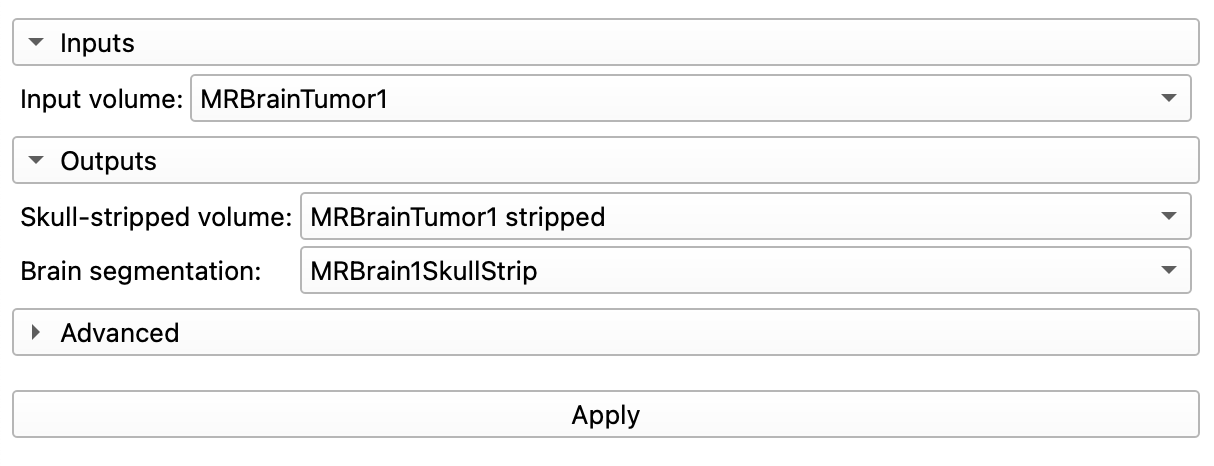
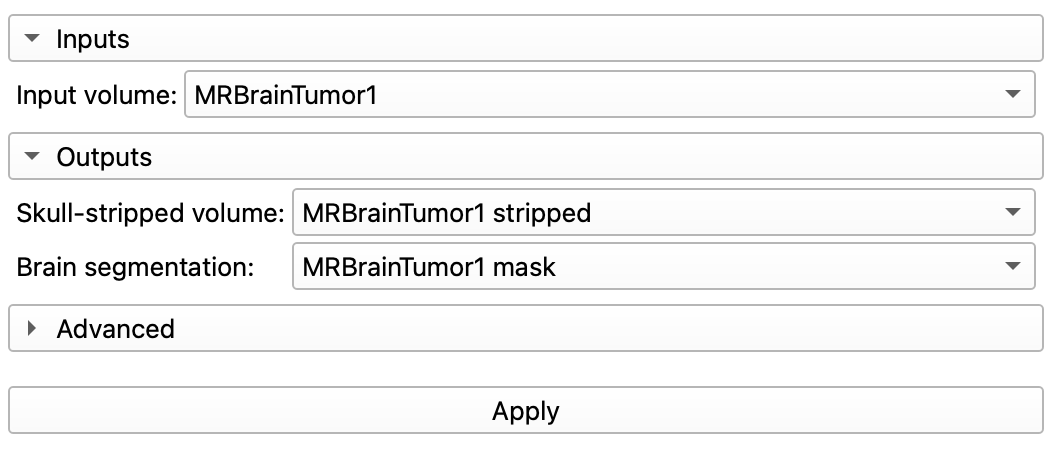
add synthseg to MRTumor

Changed region(s): [[0.0, 0.3097, 0.9981, 0.8053], [0.0, 0.031, 0.9981, 0.2788], [0.0, 0.8363, 0.9981, 0.9602]]

diff --git a/docs/slicer/MRTumorSegment.md b/docs/slicer/MRTumorSegment.md
@@ -38,9 +38,10 @@ This exercise is based on the following Slicer tutorial: [pdf](https://www.dropb
 This exercise requires the following extensions:
 
 - [HDBrainExtraction](https://github.com/lassoan/SlicerHDBrainExtraction#hdbrainextraction).
-- PyTorch
+- PyTorch (should be installed with TotalSegmentator Extension)
+- SynthSeg
 
-Be sure to [install those extensions](CustomizeSlicer.md) before continuing.
+Be sure to [install these extensions](CustomizeSlicer.md) before continuing.
 
 ## Load the Tumor datasets
 
@@ -64,11 +65,11 @@ Hover over the names of these volumes. Notice that you get some information on t
 
     No.
 
-### Volume Module
+### Volumes Module
 
-Bring up the Volume module ![img-name](images/button_volumes_module.png){ width="50"}
+Bring up the Volumes module ![img-name](images/button_volumes_module.png){ width="50"}
 
-The volume module gives you more detailed information on the volumes and allows you to change the display properties of the volumes.
+The Volumes module gives you more detailed information on the volumes and allows you to change the display properties of the volumes.
 
 ??? question "What are the dimensions of the volume (Image Dimensions) and voxels (Image Spacing)? What is the Scalar type and Range?"
 
@@ -89,11 +90,21 @@ Starting with MRBrainTumor1, find the tumor and get all three slice viewers alig
 
 Then inspect Tumor 2.
 
-**Baseline radiologist's clinical impression:**
+The two volumes are MRIs of the same patient, taken at two different times. Here is what the radiologists reported:
+
+**Baseline radiologist's clinical impression (MRBrainTumor1):**
 
 - large falcine lesion is identified.
 - measures 3.10 cm anteroposteriorly and 3.51 cm in height.
 - enhances moderately on post gadolinium imaging.
+
+**Follow-up radiologist's clinical impression (MRBrainTumor2):**
+
+- left frontal lobe mass appears unchanged on all series.
+- measures 3.3 x 3.2 cm in maximum dimension.
+- enhances moderately on post gadolinium imaging.
+
+Keep these reports in mind. Later, you will compare them with your own measurements.
 
 ### Volume Render the Tumors
 
@@ -116,8 +127,8 @@ In this step, we will render the MRI volume in 3D and then use the crop tool to 
 ![img-name](images/MRTumor-red-slice-controller.png){width=50%}
 
 - Use the Slice controllers to overlay the volume.
-    - **Foreground**: `Tumor2`
-    - **Background**: `Tumor1`
+    - **Foreground**: `MRBrainTumor2`
+    - **Background**: `MRBrainTumor1`
 - Change the transparency between the 2 volumes to 50%
 - Are the volumes aligned?
 
@@ -158,11 +169,11 @@ SAVE YOUR WORK!
 
 ## Segmentation
 
-Next, we'll segment the tumors using the segmentation tool. 
+Next, we'll segment the tumors using the segmentation tool.
 
 ### Segment Tumor1
 
-We will use the Grow-from-seeds method to segment the Tumor in the MRBrainTumor1 volume. First, though, we need to segment three orthogonal sections from the tumor (and sample the background). 
+We will use the Grow-from-seeds method to segment the Tumor in the MRBrainTumor1 volume. First, though, we need to segment three orthogonal sections from the tumor (and sample the background).
 
 #### 2D Slice Viewers
 
@@ -178,8 +189,8 @@ Bring up the Segment Editor and use the following settings:
 1. **Segmentation:** Rename new segmentation as `SegTumor1`
    ![img-name](images/seg-editor-rename-segment.png){ width="450"}
 2. **Source Volume:** Set to `MRBrainTumor1`
-3. Create a new Segmentation called Tumor1
-4. Create another segmentation called Not_tumor
+3. Add a new segment called `Tumor1`
+4. Add another segment called `Not_Tumor`
 
 ![segmentation table](images/MRTumor-seg-editor-seg-list1.png){ width="450"}
 
@@ -253,7 +264,7 @@ Ok, repeat the segmentation for Tumor2, with the following changes:
 
 1. Create a New Segmentation as `SegTumor2`
 2. Change the Source Volume to `MRBT2mvd`
-3. Create a new Segment called Tumor2. Change the color of this segment to Blue (or a different color from the original tumor)
+3. Add a new segment called `Tumor2`. Change the color of this segment to Blue (or a different color from the original tumor)
 
 ![img-name](images/MRTumor-seg-editor-seg-list2.png){ width="450"}
 
@@ -275,7 +286,7 @@ Review how slicer organizes the data.
 1. Each Segmentation contains segments that are specific to a volume (MRBrainTumor1 or MRBT2mvd, in this case)
 2. Click on MRBrainTumor1
     - Notice how other items in the Data table light up - these are connected to Tumor1 in some fashion
-3. Hover over one of the Segmentations (Like Tumor1). After a beat, you get information about that volume:
+3. Hover over one of the segments (like Tumor1). After a beat, you get information about that segment:
     >Segment - ID, Segment_1, Representations: Binary labelmap, Closed Surface, Color: (128, 174, 128)
 4. Compare that information to the information that you get for the volumes, like "MRBrainTumor1"
     >Volume (Dimensions: 256 X 256 X 112 Spacing: 0.938 x 0.938 x 1.42mm )
@@ -288,9 +299,9 @@ Review how slicer organizes the data.
 
 ![tumor overlay](images/MRTumor-segment-overlay-4up.png){ width="450"}
 
-## Region Properties
+## Measure the Tumors
 
-So, have the tumors changed in size?
+So, have the tumors changed in size? In this step, you measure each tumor by hand. Later, in MATLAB, you will import these measurements and calculate the volume, the overlap (Dice), and the surface distance of the two tumor segmentations.
 
 ### Manually Measure Tumor With Ruler
 
@@ -313,7 +324,7 @@ Switch to the **Markups** module to keep track of your markup measurements.
    - Be sure to measure all three anatomical axes of the tumors: A-P, L-R, S-I
    - Make sure that you measure across the widest part of the tumors in each plane.
 
-??? tip "Making Multiple Sequential Line Measurements"
+!!! tip "Making Multiple Sequential Line Measurements"
 
     You can make several measurements at the same time by turning on the "Place Multiple Control Points" setting. In the Markups tool bar, bring up the **Place Control Points** menu by clicking on the triangle next to this icon: 
 
@@ -325,6 +336,7 @@ Switch to the **Markups** module to keep track of your markup measurements.
 
 1. As you measure each length, an entry will be added into the Markups table, prefaced by an "L" (for length)
 2. Double-click on that name and rename it to indicate tumor number and Anatomical Axes, e.g. `T1-LR`
+    - Use exactly these six names: `T1-AP`, `T1-LR`, `T1-SI`, `T2-AP`, `T2-LR`, and `T2-SI`. Slicer saves each line in a file with the same name (e.g. `T1-LR.mrk.json`), and the MATLAB live script uses these names to import your measurements
 3. Also, for each measurement, under the **Display:Advanced tab**, uncheck `Properties Label` to remove text from the slices
 4. When you are ready to Measure the second tumor, hide all of the first tumor markups by closing the eye icons for each measurement in the Markups table
 5. Finally, when you have made all of your measurements, create a new folder in the Markups module called Line Measurements and drag all of your measurements into this folder
@@ -333,7 +345,11 @@ You should end up with something that looks like this:
 
 ![img-name](images/MRTumor-markups-table.png){ height="450"} ![img-name](images/MRTumor-4up-line-measurements.png){height="450"}
 
-### Segment Statistics
+??? question "How do your measurements compare with the radiologists' impressions?"
+
+    Compare your measurements of Tumor1 with the baseline impression, and your measurements of Tumor2 with the follow-up impression (see [Inspect the Tumors](#inspect-the-tumors)). Did the tumor change in size?
+
+<!-- ### Segment Statistics
 
 You can calculate properties like volume and surface area using the **Segment Statistics Module**
 
@@ -377,20 +393,14 @@ Once you have set-up all of the options, click **Apply**
 4. Open Microsoft Excel
 5. Paste
 
-Repeat the steps for "Tumor2".
-
-### Follow-up radiologist's clinical impression
-
-- left frontal lobe mass appears unchanged on all series.
-- measures 3.3 x 3.2 cm in maximum dimension.
-- enhances moderately on post gadolinium imaging.
+Repeat the steps for "Tumor2". -->
 
 ## Skull Stripping
 
 In this step, we will remove the skulls from the volumes using the **HD Brain Extraction tool.**
 This is not strictly necessary to segment the tumors but it does highlight a cool new technique.
 
-Select the HD Brain Extraction tool from the Modules Menu
+Select the HD Brain Extraction tool from the Modules/Segmentation Menu
 
 ![img-name](images/mod-menu-HD-Brain-Extract.png){ width="350"}
 
@@ -398,7 +408,7 @@ And set:
 
 1. **Input volume** to `MRBrainTumor1`
 2. **Skull-stripped volume** to `Create New Volume`
-3. **Brain Segmentation** to `Create New Segmentation` as "MRBT1SkullStrip"
+3. **Brain Segmentation** to `Create New Segmentation` 
     ![img-name](images/MRTumor-HDBrainExtract-settings.png){ width="450"}
 4. Click **Apply**.
     - You may get a notice that PyTorch will be installed. Just wait...
@@ -415,6 +425,71 @@ Switch to the **Data** Module and notice that:
 - A new segmentation node has been added called `MRBT1SkullStrip` and it contains one segment: "brain"
 
 Go to the Segment Editor and turn on the 3D view to see the brain in 3D
+
+SAVE YOUR WORK!!!!
+
+## SynthSeg
+
+SynthSeg is a deep learning model that segments the brain into about 30 structures, such as the cerebral cortex, the white matter, the ventricles, and the hippocampus. It was trained on healthy brains, so let's see what it does with a tumor.
+
+Bring up the SynthSeg module and set:
+
+1. **Input Volume:** `MRBrainTumor1 stripped`
+2. **Model:** `SynthSeg 2.0`
+3. Click **Run Segmentation**. This can take a few minutes.
+
+!!! warning "If SynthSeg fails the first time"
+
+    The first time you run SynthSeg, Slicer installs the Python packages that SynthSeg needs. These packages may not work until Slicer restarts, so the first run can fail or crash. If that happens:
+
+    1. Save your work
+    2. Restart Slicer and reload your scene
+    3. Run SynthSeg again
+
+    If it still fails, open the error log (**View > Error Log**), and send the error message to your instructor.
+
+![synth seg output 4 up](images/MRTumor-SynthSeg-4up.png){ width="450"}
+>SynthSeg output showing the right cerebral cortex, the left cerebral white matter, and the tumors
+
+Scrub through the slices. Is there any segmentation at the tumors?
+
+SynthSeg creates a new segmentation node, with one segment per brain structure. It also calculates the volume of each structure, and saves them in a CSV file (`MRBT1stripped_volumes.csv`) when the segmentation is done. You will use this file in MATLAB.
+
+SAVE YOUR WORK!
+
+## Save Your Files for MATLAB
+
+In the MATLAB live script (SLCR3 Tumor Comparisons), you will analyze your segmentations and measurements. To get ready, merge your segmentations into one node, and save your files with the names that the live script expects.
+
+### Merge the segmentations
+
+The live script loads the brain and both tumors from a single segmentation node. As in the [CTA Cardio exercise](CTACardioSegment.md), we copy segments from one node to another:
+
+1. Bring up the **Segmentations** module
+2. Set the **Active segmentation** to `MRBT1SkullStrip` (the node with the "brain" segment)
+3. Open the **Copy/move segments** tab
+4. On the right-hand side, select `SegTumor1`, select the `Tumor1` segment, and click the `<+` button to copy it into `MRBT1SkullStrip`
+5. Repeat for the `Tumor2` segment in `SegTumor2`
+6. `MRBT1SkullStrip` should now contain three segments: brain, Tumor1, and Tumor2
+7. In the **Data** module, rename `MRBT1SkullStrip` to `Merged Segmentations`
+
+Because the tumors are inside the brain (and overlap each other), Slicer stores each segment in its own **layer**. You will learn how to handle these layers in MATLAB.
+
+### Save the files
+
+Click the **Save** button and save your files into your project folder. In the **File Name** column, make sure that these files have these names:
+
+| Data | File name |
+| --- | --- |
+| Skull-stripped volume (`MRBrainTumor1 stripped`) | `MRBT1stripped.nrrd` |
+| Merged segmentation (brain, Tumor1, Tumor2) | `Merged Segmentations.seg.nrrd` |
+| Line measurements | `T1-AP.mrk.json`, `T1-LR.mrk.json`, `T1-SI.mrk.json`, `T2-AP.mrk.json`, `T2-LR.mrk.json`, `T2-SI.mrk.json` |
+| SynthSeg segmentation | `MRBT1stripped_synthseg_v2.seg.nrrd` |
+| SynthSeg volumes (created by SynthSeg; copy it into your project folder if it isn't there already) | `MRBT1stripped_volumes.csv` |
+
+!!! tip
+
+    You can edit a file name by double-clicking it in the **File Name** column of the Save dialog. The line measurements are saved with the names that you gave them in the Markups module.
 
 ## Challenge
 

diff --git a/docs/slicer/CTACardioSegment.md b/docs/slicer/CTACardioSegment.md
@@ -538,3 +538,27 @@ Use the following settings to Segment all the organs found in CTACardio Crop. Be
 Note, the first time you run Total Segmentator, you may need to install some extra stuff (python related) and it will take time.
 
 When the segmentation is complete, you should find a new segmentation node in the Data module called "CTACardio Crop Segmentation"
+#### Check for an extra slice
+
+Some versions of Slicer (including the 5.13 preview) add an extra, empty slice to the top of the TotalSegmentator segmentation. For example, CTA Crop might have 390 slices, while the segmentation has 391 slices. This will create a problem for analysis in MATLAB, which won't be able to compare the volumes voxel by voxel with the CT volume or with your own segmentation.
+
+You can check in MATLAB after you load the segmentation: `NumTransverseSlices` should be 390, the same as `CTACardio Crop`.
+
+If your segmentation has the extra slice, you can fix it in Slicer before you save it:
+
+1. Switch to the **Segment Editor**
+2. Set **Segmentation** to `CTACardio Crop segmentation` and **Source volume** to `CTACardio Crop`
+3. Click the **Specify geometry** button, just to the right of the **Source volume** selector
+4. Set **Source geometry** to `CTACardio Crop`. Leave **Oversampling** at 1, and leave **Pad output** off
+5. Click `OK`
+6. Save the segmentation (**File → Save Data**), and overwrite the old file
+
+!!! note "If Specify geometry doesn't fix it"
+    In Slicer 5.13, Specify geometry may not remove the extra slice. In that case, you have two options:
+
+    - Open the scene in Slicer 5.12, and repeat the steps above
+    - Leave the file as it is, and fix it in MATLAB with **mmMatchVolumeGeometry** from MtMtools. It removes the empty slice, so that the segmentation matches the CT volume:
+
+    ```matlab
+    totalMV = mmMatchVolumeGeometry(totalMV, ctMV);
+    ```
